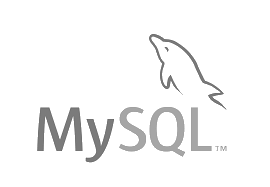
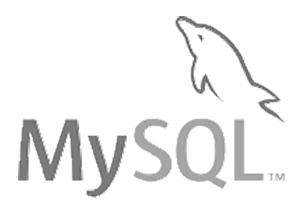
fixed badges hight and width, wraped in containers

Changed region(s): [[0.0593, 0.0802, 0.9481, 0.9626], [0.7111, 0.4813, 0.7407, 0.508]]

diff --git a/src/components/Code/Code.jsx b/src/components/Code/Code.jsx
@@ -84,44 +84,76 @@ const Code = () => {
                 Javascript yra standartinė interneto programavimo kalba, skirta
                 tinklapių sąveikai ir automatizavimui. Ji skirta tiek "kliento
                 pusės" (client-side, front-end) tiek "serverio-pusės"
-                (server-side, back-end) programavimui. Kartu su JavaScript naudoju įvairias
-                papildomas bibliotekas, kad būtų suteikta pati geriausia
-                patirtis galutiniam tinklapio vartotojui. Kliento pusėje dažnai naudoju
-                React biblioteką, kuri yra galinga ir lanksti, kad būtų lengviau
-                kurti daugialypius tinklapius. Kartu su React naudoju Redux, tai
-                padeda valdyti duomenų srautą bei tvarkyti sudėtingas aplikacijų
-                būsenas ir palaiko būsenos valdymą skaidriu ir efektyviu būdu.
-                Serverio pusėje naudoju Node.js kartu su Express.js, kad būtų
-                galima kurti dinamiškus tinklapius su serverio pusės logika ir
-                užtikrinti saugų duomenų srautą tarp vartotojo ir duomenų bazės.
-                Jei reikia mobiliųjų aplikacijų, naudoju React Native, kad tinklapio funkcionalumas būtų lengviau pritaikomas mobiliajai platformai.
+                (server-side, back-end) programavimui. Kartu su JavaScript
+                naudoju įvairias papildomas bibliotekas, kad būtų suteikta pati
+                geriausia patirtis galutiniam tinklapio vartotojui. Kliento
+                pusėje dažnai naudoju React biblioteką, kuri yra galinga ir
+                lanksti, kad būtų lengviau kurti daugialypius tinklapius. Kartu
+                su React naudoju Redux, tai padeda valdyti duomenų srautą bei
+                tvarkyti sudėtingas aplikacijų būsenas ir palaiko būsenos
+                valdymą skaidriu ir efektyviu būdu. Serverio pusėje naudoju
+                Node.js kartu su Express.js, kad būtų galima kurti dinamiškus
+                tinklapius su serverio pusės logika ir užtikrinti saugų duomenų
+                srautą tarp vartotojo ir duomenų bazės. Jei reikia mobiliųjų
+                aplikacijų, naudoju React Native, kad tinklapio funkcionalumas
+                būtų lengviau pritaikomas mobiliajai platformai.
               </p>
             </div>
           </div>
         </div>
         <div className="badges-container">
           <div className="badges">
-            {/* <div>               */}
-            <img src={HtmlImg} alt="html" />
-            <img src={JSImg} alt="javascript" />
-            <img src={ReactImg} alt="react" />
-            <img src={ReduxImg} alt="redux" />
-            <img src={NextImg} alt="nextjs" />
-            <img src={VueImg} alt="vue" />
-            <img src={NativeImg} alt="react-native" />
-            <img src={GitImg} alt="git" width={80} />
-            <img src={NodeImg} alt="nodejs" />
-            <img src={ExpressImg} alt="express" />
-            {/* </div>
-            <div> */}
-            <img src={GraphImg} alt="graphql" />
-            <img src={ApolloImg} alt="apollo" />
-            <img src={MongoImg} alt="mongodb" />
-            <img src={FirebaseImg} alt="firebase" />
-            <img src={MysqlImg} alt="mysql" />
-            <img src={PostgresImg} alt="postgres" />
-            <img src={NginxImg} alt="nginx" />
-            {/* </div> */}
+            <div className="badge">
+              <img src={HtmlImg} alt="html" />
+            </div>
+            <div className="badge sm-h">
+              <img src={JSImg} alt="javascript" />
+            </div>
+            <div className="badge">
+              <img src={ReactImg} alt="react" />
+            </div>
+            <div className="badge sm-h">
+              <img src={ReduxImg} alt="redux" />
+            </div>
+            <div className="badge">
+              <img src={NextImg} alt="nextjs" />
+            </div>
+            <div className="badge">
+              <img src={VueImg} alt="vue" />
+            </div>
+            <div className="badge">
+              <img src={NativeImg} alt="react-native" />
+            </div>
+            <div className="badge">
+              <img src={GitImg} alt="git" width={80} />
+            </div>
+            <div className="badge">
+              <img src={NodeImg} alt="nodejs" />
+            </div>
+            <div className="badge sm-h">
+              <img src={ExpressImg} alt="express" />
+            </div>
+            <div className="badge sm-h">
+              <img src={GraphImg} alt="graphql" />
+            </div>
+            <div className="badge sm-h">
+              <img src={ApolloImg} alt="apollo" />
+            </div>
+            <div className="badge lg-w">
+              <img src={MongoImg} alt="mongodb" />
+            </div>
+            <div className="badge lg-w">
+              <img src={FirebaseImg} alt="firebase" />
+            </div>
+            <div className="badge">
+              <img src={MysqlImg} alt="mysql" />
+            </div>
+            <div className="badge sm-h">
+              <img src={PostgresImg} alt="postgres" />
+            </div>
+            <div className="badge">
+              <img src={NginxImg} alt="nginx" />
+            </div>
           </div>
         </div>
       </div>

diff --git a/src/components/Code/code.css b/src/components/Code/code.css
@@ -79,55 +79,41 @@
   gap: 1rem;
 }
 
-.badges div {
+/* .badges div {
   display: flex;
   justify-content: space-between;
-  /* flex-wrap: wrap; */
   gap: 1.7rem;
-}
+} */
 
-.badges img {
+.badge {
   height: auto;
   max-height: 50px;
+  width: auto;
+  max-width: 50px;
+  display: flex;
+  justify-content: center; /* Horizontally center items */
+  align-items: center;
 }
 
-.badges img:nth-child(2) {
-  height: 45px;
-  padding-top: 0.3rem;
+.badge img {
+  width: 100%;
+  height: auto;
 }
-.badges img:nth-child(4) {
-  height: 45px;
-  padding-top: 0.3rem;
+
+.sm-h {
+  height: 44px;
 }
-.badges img:nth-child(8) {
-  height: 40px;
-  padding-top: 0.3rem;
+
+.sm-h img:first-child {
+  margin-top: 0.3rem;
 }
-.badges img:nth-child(10) {
-  height: 42px;
+
+.sm-h img {
+  height: 100%;
 }
-.badges img:nth-child(11) {
-  height: 48px;
-}
-.badges img:nth-child(12) {
-  height: 47px;
-}
-.badges img:nth-child(13) {
-  height: 42px;
-  padding-top: 0.4rem;
-}
-.badges img:nth-child(14) {
-  padding-top: 0.3rem;
-}
-.badges img:nth-child(15) {
-  height: 60px;
-  padding-bottom: 0.6rem;
-}
-.badges img:nth-child(16) {
-  height: 46px;
-}
-.badges img:nth-child(17) {
-  height: 46px;
+
+.lg-w {
+  max-width: 110px;
 }
 
 .animate-title {
@@ -230,12 +216,14 @@
   .badges-container {
     margin-top: 13rem;
   }
-  .badges img {
-    max-height: 30px;
+  .badge {
+    max-height: 40px;
   }
-  .badges img:nth-child(8) {
-    height: 27px;
-    width: 53px;
+  .sm-h {
+    height: 44px;
+  }
+  .lg-w {
+    max-width: 80px;
   }
 }
 
